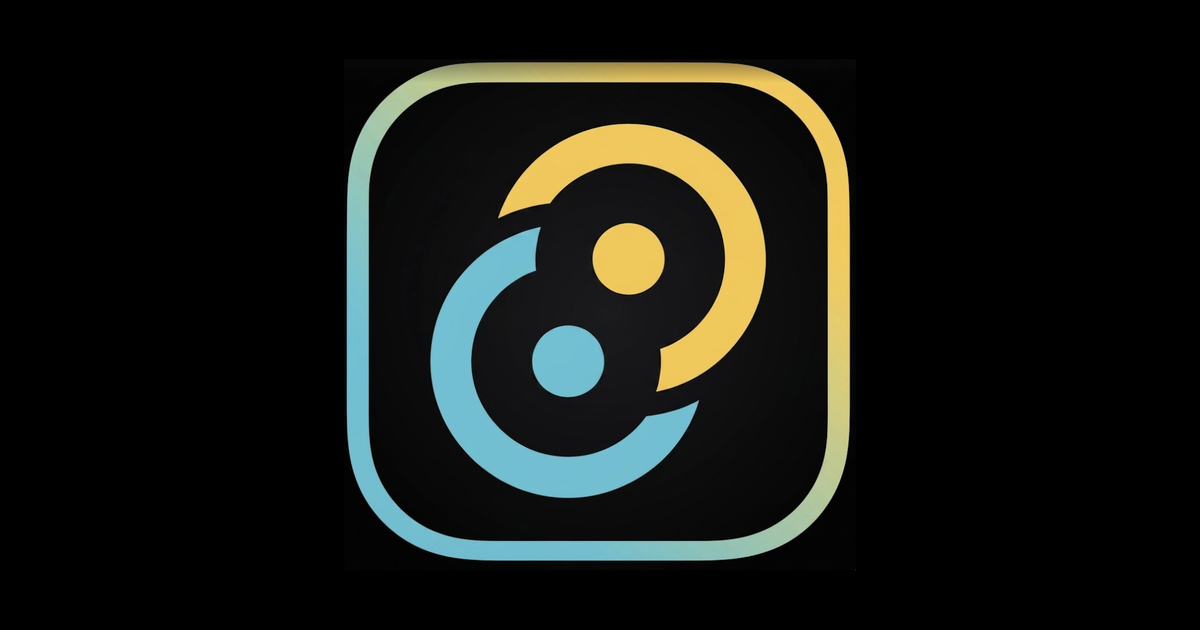
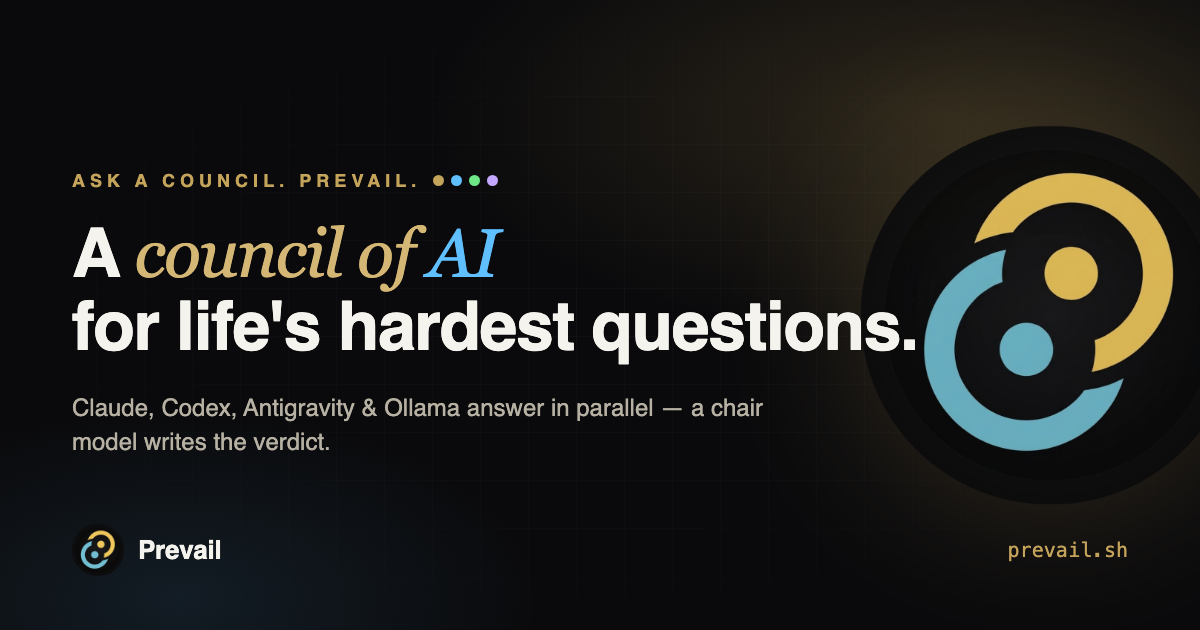
Fix broken download link (-> releases/latest, v0.2.5); branded OG card + image meta

diff --git a/index.html b/index.html
@@ -36,10 +36,10 @@
       content="A council of AI for life's hardest questions. Every hard call fans out to Claude, Codex, Antigravity, and Ollama in parallel — a chair model writes the verdict. Local-first. Mac app + CLI."
     />
     <meta property="og:url" content="https://prevail.sh/" />
-    <meta property="og:image" content="https://prevail.sh/og-image.png" />
+    <meta property="og:image" content="https://prevail.sh/og-image.png?v=2" />
     <meta property="og:image:width" content="1200" />
     <meta property="og:image:height" content="630" />
-    <meta property="og:image:alt" content="Prevail terminal cockpit screenshot — gold ASCII PREVAIL logo, four CLI panelists, deliberation in progress." />
+    <meta property="og:image:alt" content="Prevail — A council of AI for life's hardest questions. Round gold-and-cyan Prevail mark on near-black." />
     <meta property="og:locale" content="en_US" />
 
     <!-- ── Twitter / X Card ─────────────────────────────────────────────── -->
@@ -49,8 +49,8 @@
       name="twitter:description"
       content="A council of AI for life's hardest questions. Four engines answer in parallel; a chair model writes the verdict. Local-first. Mac app + CLI."
     />
-    <meta name="twitter:image" content="https://prevail.sh/og-image.png" />
-    <meta name="twitter:image:alt" content="Prevail terminal cockpit." />
+    <meta name="twitter:image" content="https://prevail.sh/og-image.png?v=2" />
+    <meta name="twitter:image:alt" content="Prevail — A council of AI for life's hardest questions." />
 
     <!-- ── JSON-LD Structured Data ──────────────────────────────────────── -->
     <script type="application/ld+json">

diff --git a/src/App.tsx b/src/App.tsx
@@ -34,11 +34,12 @@ import {
 const GITHUB_CLI = "https://github.com/fru-dev3/prevail";
 const GITHUB_DESKTOP = "https://github.com/fru-dev3/prevail-desktop";
 const CHANGELOG_CLI = "https://github.com/fru-dev3/prevail/blob/main/CHANGELOG.md";
-const DMG_URL =
-  "https://github.com/fru-dev3/prevail-desktop/releases/latest/download/Prevail_0.2.16_aarch64.dmg";
+// Points at the latest GitHub release page (never 404s as new versions ship),
+// rather than a version-pinned .dmg asset that breaks on every release.
+const DMG_URL = "https://github.com/fru-dev3/prevail-desktop/releases/latest";
 const INSTALL_CMD = "curl -fsSL prevail.sh/install | bash";
 const VERSION_CLI = "1.6.5";
-const VERSION_DESKTOP = "0.2.16";
+const VERSION_DESKTOP = "0.2.5";
 const EASE = [0.22, 1, 0.36, 1] as const;
 
 // ─────────────────────────────────────────────────────────────────────────────